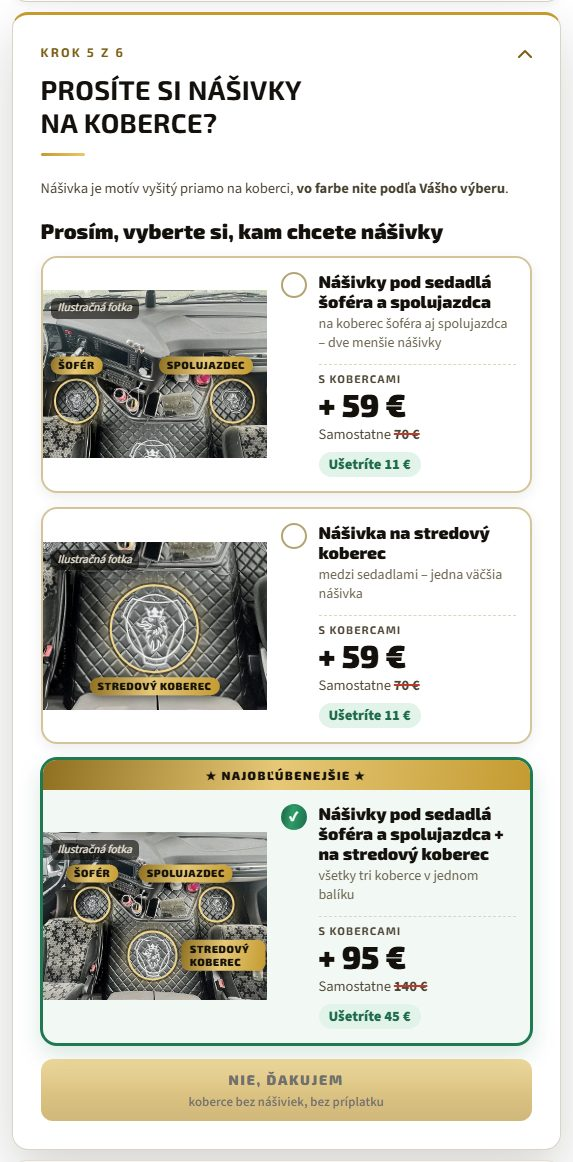
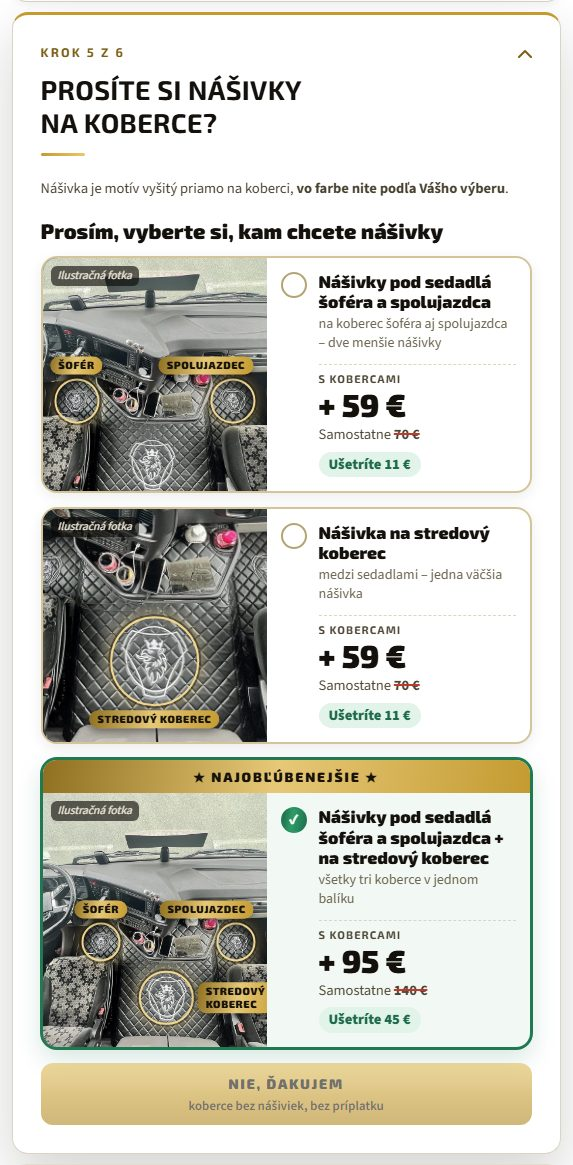
1V kamióny: opravy po dvojitej revízii otázok po jednej — „Pokračujte“ aj pod otázkou otvorenou cez Zmeniť, otázka na dvere sa nedá obísť, farby tapacíru celé, fotka 5.1 na PC bez pásov, texty
- telo56: tlačidlo „Pokračujte ďalej / k súhrnu“ skryté len pri nehotovom kroku; otázky otvorené cez Zmeniť sa zavrú pri zatvorení hlavičky a v otvorKrok; lišta „Pokračovať“ zavrie otázku zakrývajúcu nepotvrdenú kartu
- nášivka na dvere „ako na kobercoch“ bez vzoru: otázku Áno / Nie otvára chyba() (U.dvereInfo), Zmeniť ponuku + Áno ju neobíde
- odoberBoky: pod sedadlá -> stredový koberec prevezme práve videný motív a niť
- texty: „rovnaká nášivka ako pod sedadlami“, „Motív nášivky na tapacír dverí: rovnaký ako na kobercoch“, vlastný nadpis karty motívu na dvere, „✓ Iný materiál, farba alebo lemovanie“, ponuka tapacíru bez sľubu predvoľby, nezalomiteľné „· + 95 €“
- CSS: farby tapacíru v karte v stĺpcoch ≥ 86 px, otázky 20 px, pás ★ ako rohož/box, PC fotka 5.1 cez celú výšku dlaždice (zväčšenie z --z, clamp výrezu)
- testy: košík 334 OK (cesty 17–19), scenáre: fotka 5.1, zlom názvov farieb, otázka ≥ 20 px; snímky d-*.jpg; plán §12.1
Košík a ceny bez zmeny (POST 423 € / 258 € na 1280 aj 390 bajt po bajte = React).

diff --git a/assets/js/components/konfigurator1v/kamion/ui.js b/assets/js/components/konfigurator1v/kamion/ui.js
@@ -169,7 +169,9 @@ export function vytvorUi(o) {
           if (!S.tapLem) return { pole: "tapLem", msg: c.lemovanie };
           if (!U.n6.mat) return { pole: "tapMatDalej", msg: c.pokracovat };
         }
-        if (S.tapNas == null) return { pole: "tapNas", msg: c.nasivka };
+        /* U.dvereInfo: nášivka na dvere „ako na kobercoch“ stratila vzor -> otázka Áno / Nie platí znova (s vysvetlením),
+           kým na ňu zákazník neodpovie — ani znova „Áno“ pri tapacíri ju neobíde (revízia 18. 10. 2026 večer). */
+        if (S.tapNas == null || U.dvereInfo) return { pole: "tapNas", msg: c.nasivka };
         if (S.tapNas) {
           if (koberecNas() && !U.n6.nasOdp) return { pole: "tapNasVolba", msg: c.nasivka_volba };
           if (!(S.tapNasRovnaka && koberecNas())) {
@@ -616,14 +618,16 @@ export function vytvorUi(o) {
     return '<div class="k-sk kn-potvrd' + (msg ? " is-chyba" : "") + '" data-pole="' + pole + '"><button type="button" class="k-btn-zelene" data-a="potvrd" data-v="' + v + '" data-f="potvrd:' + v + '">' +
       esc(T.kroky.tlacidla.pokracovat) + '</button><p class="k-sk__chyba">' + esc(msg) + "</p></div>";
   }
-  /** Zodpovedaná podotázka: „✓ <b>nadpis</b> hodnota — Zmeniť“ (vnutri = riadok voľby „iné“ v otvorenej karte). */
+  /** Zodpovedaná podotázka: „✓ <b>nadpis</b> hodnota — Zmeniť“ (vnutri = riadok voľby „iné“ v otvorenej karte).
+   *  Hodnota „· + 95 €“ sa pripojí nezalomiteľnou medzerou (na telefóne nový riadok nezačne bodkou a cenou). */
   function riadokHot(zmenit, nadpis, hodnota, vnutri) {
     return '<div class="kn-hot' + (vnutri ? " kn-hot--vnutri" : "") + '" data-hot="' + zmenit + '"><span class="kn-hot__ic" aria-hidden="true"></span><span class="kn-hot__tx"><b>' + esc(nadpis) + "</b>" +
-      (hodnota ? " " + esc(hodnota) : "") + '</span><button type="button" class="kn-hot__zm" data-a="zmenit" data-v="' + zmenit + '" data-f="zmenit:' + zmenit + (vnutri ? ":v" : "") +
+      (hodnota ? (/^·/.test(hodnota) ? NB : " ") + esc(hodnota) : "") + '</span><button type="button" class="kn-hot__zm" data-a="zmenit" data-v="' + zmenit + '" data-f="zmenit:' + zmenit + (vnutri ? ":v" : "") +
       '" aria-label="' + attr(fill(U0.zmenit_aria, { x: String(nadpis).replace(/:$/, "") })) + '">' + esc(T.kroky.tlacidla.zmenit) + "</button></div>";
   }
   const karta = (blok, nadpis, obsah) => '<div class="kn-karta" data-blok="' + blok + '" tabindex="-1"><p class="kn-karta__ey">' + esc(nadpis) + "</p>" + obsah + "</div>";
-  /** Zodpovedané riadky, otvorený blok (len jeden), za ním nič; „Pokračujte“ až keď je všetko zodpovedané. */
+  /** Zodpovedané riadky, otvorený blok (len jeden), za ním nič; „Pokračujte“ až keď je všetko zodpovedané — aj pod
+   *  otázkou znova otvorenou cez „Zmeniť“ (revízia 18. 10. 2026 večer: inak hotový krok ostal bez tlačidla). */
   function telo56(id, posledny, blok, riadok) {
     const otv = otvorenyBlok(id), bl = blokyKroku(id);
     let html = "";
@@ -631,7 +635,7 @@ export function vytvorUi(o) {
       if (bl[i] === otv) { html += blok(otv); break; }
       html += riadok(bl[i]);
     }
-    return html + koniecKroku(id, posledny, !!otv);
+    return html + koniecKroku(id, posledny, !hotovy(id));
   }
   const teloNasivky = (posledny) => telo56("nasivky", posledny, blokNasivky, riadokNasivky);
   const teloTapacir = (posledny) => telo56("tapacir", posledny, blokTapacir, riadokTapacir);
@@ -684,9 +688,9 @@ export function vytvorUi(o) {
   function riadokNasivky(b) {
     const t = T.kroky.nasivky, h = t.hotove;
     if (b === "kam") {
-      if (S.nas === "nechcem") return riadokHot("kam", t.zhrnutie_nie, "· " + h.bez_priplatku);
+      if (S.nas === "nechcem") return riadokHot("kam", t.zhrnutie_nie, "·" + NB + h.bez_priplatku);
       const p = ponuka().nasivky[S.nas];
-      return riadokHot("kam", t.volby[S.nas].text, p && p.suma ? "· " + plus(p.suma) : "");
+      return riadokHot("kam", t.volby[S.nas].text, p && p.suma ? "·" + NB + plus(p.suma) : "");
     }
     if (b === "boky") return riadokHot("boky", h.boky, motivTxt(S.nasBoky));
     if (S.nas === "boky+stred" && S.stredRovnaky) return riadokHot("stred", h.stred, fill(h.stred_rovnaka, { x: motivTxt(S.nasBoky) }));
@@ -716,7 +720,7 @@ export function vytvorUi(o) {
             popisTx(S.material ? matKratko(S.material) : "") + popisTx([fk ? farbaTx(fk) : "", lk ? lemTx(lk) : ""].filter(Boolean).join(" · "))) +
           rvDlazdica("tapZmenit", null, odp && !S.tapRovnaky, mozaikaMaterialov(), r.inak, popisTx(r.inak_popis)) + "</div>"));
       }
-      let html = riadokHot("mat", r.inak, "", true) + skOt("tapacir", "tapMat", oz.material, '<div class="k-dlazdice k-dlazdice--mat" role="group" aria-labelledby="' + P + 'ot-tapMat">' + MATERIALY.map((m, i) => {
+      let html = riadokHot("mat", r.inak_hotove, "", true) + skOt("tapacir", "tapMat", oz.material, '<div class="k-dlazdice k-dlazdice--mat" role="group" aria-labelledby="' + P + 'ot-tapMat">' + MATERIALY.map((m, i) => {
         const v = matT(m.nazov), x = S.tapMat === m.nazov, fx = x && S.tapFarba ? farba(m.nazov, S.tapFarba) : null;
         return '<button type="button" class="k-dlazdica' + (x ? " is-on" : "") + '" data-a="tapMat" data-v="' + attr(m.nazov) + '" data-f="tapMat:' + i + '" aria-pressed="' + x + '">' +
           '<img class="k-dlazdica__img" src="' + attr(fx ? fx.full : m.karta_obrazok) + '" alt="" loading="lazy"><span class="k-dlazdica__nm">' + esc(v.variant) + "<small>" + esc(v.nazov === "Mikrosemiš" ? U0.mikrosemis : U0.syntetika) + "</small></span></button>";
@@ -746,13 +750,14 @@ export function vytvorUi(o) {
     const ft = tm ? (tk && farba(tm, tk)) || null : null;
     const bgT = ft ? ft.full : tm ? matD(tm).karta_obrazok : "";
     const podT = tm ? fill(nd.podklad, { x: matKratko(tm) + (ft ? ", " + farbaTx(ft) : "") }) : "";
+    // karta motívu má vlastný nadpis (nie ten istý ako zatvorená otázka Áno / Nie hneď nad ňou)
     if (otazkaDvere()) {
       const odp = U.n6.nasOdp;
-      return karta("dvere", nd.nadpis, skOt("tapacir", "tapNasVolba", oz.nasivka, '<div class="kn-rv" role="group" aria-labelledby="' + P + 'ot-tapNasVolba">' +
+      return karta("dvere", nd.nadpis_motiv, skOt("tapacir", "tapNasVolba", oz.nasivka, '<div class="kn-rv" role="group" aria-labelledby="' + P + 'ot-tapNasVolba">' +
         rvDlazdica("tapNasRovnaka", "1", odp && S.tapNasRovnaka, platno("kn-rv__cv", kn, bgT, ".92", 600, 400), nd.rovnaka, popisTx(motivTxt(kn))) +
         rvDlazdica("tapNasRovnaka", "0", odp && !S.tapNasRovnaka, mozaikaMotivov("dvere"), nd.ina, popisTx(nd.ina_popis)) + "</div>"));
     }
-    return karta("dvere", nd.nadpis, (kn ? riadokHot("dvere", nd.ina, "", true) : '<p class="kn-info">' + esc(S.nas == null ? nd.bez_kobercov_nevybrate : nd.bez_kobercov) + "</p>") +
+    return karta("dvere", nd.nadpis_motiv, (kn ? riadokHot("dvere", nd.ina, "", true) : '<p class="kn-info">' + esc(S.nas == null ? nd.bez_kobercov_nevybrate : nd.bez_kobercov) + "</p>") +
       skOt("tapacir", "dvereMotiv", oz.motiv, dlazdiceMotivov("dvere", S.tapNasMotiv, "dvere")) +
       skOt("tapacir", "dvereNit", oz.nit, cipyNiti("dvere", S.tapNasNit)) +
       nahladVelky({ motiv: S.tapNasMotiv, nit: S.tapNasNit }, bgT, nd.kam_pride, podT, schemaDvere()) +
@@ -942,14 +947,18 @@ export function vytvorUi(o) {
     for (let j = 0; j < i; j++) if (!hotovy(ks[j])) return ks[j];
     return null;
   }
+  /** Otázky znova otvorené cez „Zmeniť“ platia len kým je krok otvorený: zatvorenie hlavičky alebo iný krok ich zavrie
+   *  (revízia 18. 10. 2026 večer — po návrate bol krok bez riadkov ✓ a bez „Pokračujte“). */
+  const zavriZnova = () => { U.znova.nasivky = null; U.znova.tapacir = null; };
   function otvorKrok(id) {
     if (kroky().indexOf(id) < 0) id = "vozidlo"; // neznámy krok (napr. tapacír pri dodávke) -> prvý
+    zavriZnova();
     const pred = prvyNehotovyPred(id);
     if (pred) { U.chyby[pred] = chyba(pred); U.znova[pred] = null; U.zablesk = pred; U.otvoreny = pred; render(); posunPole(pred, U.chyby[pred].pole); return; }
     U.otvoreny = id; render(); posunKrok(id, true);
   }
   function klikHlavicka(id) {
-    if (U.otvoreny === id) { U.otvoreny = null; render(); return; }
+    if (U.otvoreny === id) { U.otvoreny = null; zavriZnova(); render(); return; }
     otvorKrok(id);
   }
   function pokracuj(id) {
@@ -983,6 +992,8 @@ export function vytvorUi(o) {
     if (vsetkoHotove()) { kosik(); return; }
     const x = U.otvoreny;
     if (x && !hotovy(x)) {
+      /* otázka znova otvorená cez „Zmeniť“ zakrýva nezodpovedanú podotázku -> lišta ju zavrie a posunie na tú podotázku */
+      if (U.znova[x]) { U.znova[x] = null; render(); posunNaBlok(x); return; }
       /* v karte kroku 5 / 6 čaká len „Pokračovať“ -> lišta „Pokračovať“ urobí to isté */
       const ch = chyba(x), pv = POTVRD_POLA[ch.pole];
       if (pv && otvorenyBlok(x) === BLOK_POLA[x][ch.pole]) { const k0 = kluc(x); potvrd(pv); if (kluc(x) !== k0) posunNaBlok(x); return; }
@@ -999,15 +1010,15 @@ export function vytvorUi(o) {
     fn();
     if (!tapDostupny()) {
       S.tap = null; S.tapNas = null;
-      U.n6 = { matOdp: false, mat: false, nasOdp: false, nas: false }; U.znova.tapacir = null;
+      U.n6 = { matOdp: false, mat: false, nasOdp: false, nas: false }; U.znova.tapacir = null; U.dvereInfo = false;
     }
     /* Nášivka na tapacír „ako na kobercoch“ stratila vzor -> otázka na dvere sa ukáže znova s vysvetlením. S.tapNas ostane
        (predtým null: select Shoptetu ostal na „Áno“ = cena Shoptetu o 49 € vyššia, console.error); krok 6 je neúplný,
-       kým zákazník neodpovie Áno (potom motív a niť) alebo Nie. */
+       kým zákazník neodpovie Áno (potom motív a niť) alebo Nie — otázku otvára chyba() (pole tapNas), nie U.znova. */
     if (malNas && !koberecNas() && S.tap === "ano" && S.tapNas === true && S.tapNasRovnaka && U.n6.nasOdp) {
-      U.dvereInfo = true; U.n6.nasOdp = false; U.n6.nas = false; U.znova.tapacir = "nas";
+      U.dvereInfo = true; U.n6.nasOdp = false; U.n6.nas = false;
     }
-    if (U.dvereInfo && koberecNas()) { U.dvereInfo = false; if (U.znova.tapacir === "nas") U.znova.tapacir = null; } // vzor je späť
+    if (U.dvereInfo && koberecNas()) U.dvereInfo = false; // vzor je späť
     prepocitajChyby();
     render();
     o.naZmenu(S);
@@ -1017,10 +1028,12 @@ export function vytvorUi(o) {
   function pridajBoky() {
     if (S.nas === "stred" && (S.nasStred.motiv || S.nasStred.nit)) { S.nasBoky = { motiv: S.nasStred.motiv, nit: S.nasStred.nit }; S.stredRovnaky = true; }
   }
-  /** Odobratie nášiviek pod sedadlami: stredový koberec si nechá ich motív a niť, ak bol „rovnaký“ alebo ešte nemá vlastný. */
+  /** Odobratie nášiviek pod sedadlami: stredový koberec prevezme ich motív a niť, ak bol „rovnaký“, ak ešte nemá vlastný,
+   *  alebo pri prechode z „pod sedadlá“ (zákazník práve videl ich motív a niť, nie starý výber stredu z histórie). */
   function odoberBoky() {
     if (!(S.nasBoky.motiv || S.nasBoky.nit)) return;
-    if ((S.nas === "boky+stred" && S.stredRovnaky) || (S.nas === "boky" && !S.nasStred.motiv && !S.nasStred.nit)) S.nasStred = { motiv: S.nasBoky.motiv, nit: S.nasBoky.nit };
+    const bokyCele = !!(S.nasBoky.motiv && S.nasBoky.nit), stredPrazdny = !S.nasStred.motiv && !S.nasStred.nit;
+    if ((S.nas === "boky+stred" && S.stredRovnaky) || (S.nas === "boky" && (bokyCele || stredPrazdny))) S.nasStred = { motiv: S.nasBoky.motiv, nit: S.nasBoky.nit };
   }
   /** „Pokračovať“ v karte kroku 5 / 6: karta sa zatvorí, ak je v nej všetko vybraté; inak červený rám chýbajúceho poľa. */
   function potvrd(v) {
@@ -1108,7 +1121,8 @@ export function vytvorUi(o) {
       case "stredRovnaky": zmena(() => { S.stredRovnaky = v === "1"; U.n5.stredOdp = true; U.n5.stred = v === "1"; U.znova.nasivky = null; }); return;
       case "tapNasRovnaka": zmena(() => { S.tapNasRovnaka = v === "1"; U.n6.nasOdp = true; U.n6.nas = v === "1"; U.znova.tapacir = null; }); return;
       case "tap":
-        zmena(() => { S.tap = v; U.znova.tapacir = null; U.dvereInfo = false; });
+        /* U.dvereInfo ostáva: otázku na nášivku na dvere s vysvetlením zruší až odpoveď Áno / Nie (akcia tapNas) */
+        zmena(() => { S.tap = v; U.znova.tapacir = null; });
         if (v === "nie") pokracuj("tapacir");
         return;
       case "tapZmenit":

diff --git a/assets/css/luxuryCar.css b/assets/css/luxuryCar.css
@@ -19025,11 +19025,27 @@ body.lcd-1v[data-lcd1v-typ="kamion"] #lcd1v-kamion .kn-dv__txt .k-cenovka { marg
 body.lcd-1v[data-lcd1v-typ="kamion"] #lcd1v-kamion .kn-dv__nm { display: block; color: var(--k-ink); font: 800 17px/1.2 var(--k-disp); }
 body.lcd-1v[data-lcd1v-typ="kamion"] #lcd1v-kamion .kn-dv__po { display: block; margin-top: 3px; color: var(--k-mute); font: 400 14px/1.4 var(--k-body); }
 /* ★ všetky tri: zlatý pás „★ Najobľúbenejšie ★“ cez celú šírku dlaždice (ako odporúčaná karta rohože a boxu do kufra) */
-body.lcd-1v[data-lcd1v-typ="kamion"] #lcd1v-kamion .kn-dv__top { display: block; padding: 8px 12px 7px; background: var(--k-zlato); color: #17130a; font: 800 12px/1.2 var(--k-disp); letter-spacing: .12em; text-align: center; text-transform: uppercase; white-space: nowrap; }
+body.lcd-1v[data-lcd1v-typ="kamion"] #lcd1v-kamion .kn-dv__top { display: block; padding: 9px 12px 8px; background: var(--k-zlato); color: #17130a; font: 800 13.5px/1.2 var(--k-disp); letter-spacing: .14em; text-align: center; text-transform: uppercase; white-space: nowrap; }
+@media (max-width: 359px) {
+  body.lcd-1v[data-lcd1v-typ="kamion"] #lcd1v-kamion .kn-dv__top { padding-inline: 8px; font-size: 12px; letter-spacing: .1em; }
+}
 @media (min-width: 600px) {
   body.lcd-1v[data-lcd1v-typ="kamion"] #lcd1v-kamion .kn-dv__b { display: grid; grid-template-columns: 46% minmax(0, 1fr); align-items: center; }
   body.lcd-1v[data-lcd1v-typ="kamion"] #lcd1v-kamion .kn-dv__b > .kn-foto { aspect-ratio: 4 / 3; }
   body.lcd-1v[data-lcd1v-typ="kamion"] #lcd1v-kamion .kn-dv__top { grid-column: 1 / -1; align-self: stretch; }
+}
+/* PC: fotka vyplní celú výšku dlaždice (text s cenovkou je vyšší než 4:3 -> predtým biele pásy nad a pod fotkou).
+   Zväčšenie ostane z --z (krúžky a štítky Šofér / Spolujazdec celé), scéna je najmenej taká vysoká ako okno fotky
+   (height max(z·75cqw, 100,5 %), šírka z pomeru 4:3) a výrez sa len posunie tak, aby pri okraji nevznikla medzera
+   (clamp). Výška okna len v % (cqh pri výške z min-height Chrome vyhodnotil ako 0); šírka okna = 100cqw. Prehliadač
+   bez jednotiek kontajnera ostane pri 4:3 vyššie. */
+@supports (width: 1cqw) {
+  @media (min-width: 600px) {
+    body.lcd-1v[data-lcd1v-typ="kamion"] #lcd1v-kamion .kn-dv__b { align-items: stretch; }
+    body.lcd-1v[data-lcd1v-typ="kamion"] #lcd1v-kamion .kn-dv__b > .kn-foto { aspect-ratio: auto; min-height: 210px; container-type: inline-size; }
+    body.lcd-1v[data-lcd1v-typ="kamion"] #lcd1v-kamion .kn-dv__b > .kn-foto .kn-scena { --hs: max(calc(var(--z) * 75cqw), 100.5%); width: auto; height: var(--hs); left: clamp(calc(100% - var(--z) * 100%), calc(50% - var(--fx) * var(--z) * 100%), 0px); top: clamp(calc(100% - var(--hs)), calc(50% - var(--fy) * var(--hs)), 0px); transform: none; }
+    body.lcd-1v[data-lcd1v-typ="kamion"] #lcd1v-kamion .kn-dv__b > .kn-dv__tx { align-self: center; }
+  }
 }
 /* „Nie, ďakujem“ s popisom pod textom */
 body.lcd-1v[data-lcd1v-typ="kamion"] #lcd1v-kamion .k-btn-zlate.kn-nie { flex-direction: column; gap: 3px; height: auto; min-height: 56px; margin-top: 14px; padding-top: 10px; padding-bottom: 10px; }
@@ -19106,7 +19122,7 @@ body.lcd-1v[data-lcd1v-typ="kamion"] #lcd1v-kamion .kn-ponuka .an { margin-top: 
    sa zatvorí do riadka „✓ … — Zmeniť“, zelené „Pokračovať“ na konci karty (ui.js skOt / karta / riadokHot / potvrdTl) ===== */
 body.lcd-1v[data-lcd1v-typ="kamion"] #lcd1v-kamion .kn-blok, body.lcd-1v[data-lcd1v-typ="kamion"] #lcd1v-kamion .kn-karta { scroll-margin-top: 72px; }
 body.lcd-1v[data-lcd1v-typ="kamion"] #lcd1v-kamion .kn-blok:focus, body.lcd-1v[data-lcd1v-typ="kamion"] #lcd1v-kamion .kn-karta:focus { outline: none; }
-body.lcd-1v[data-lcd1v-typ="kamion"] #lcd1v-kamion .kn-ot { margin: 0 0 12px; padding: 0; color: var(--k-ink); font: 800 19px/1.25 var(--k-disp); letter-spacing: .005em; text-transform: none; }
+body.lcd-1v[data-lcd1v-typ="kamion"] #lcd1v-kamion .kn-ot { margin: 0 0 12px; padding: 0; color: var(--k-ink); font: 800 20px/1.25 var(--k-disp); letter-spacing: .005em; text-transform: none; }
 body.lcd-1v[data-lcd1v-typ="kamion"] #lcd1v-kamion .kn-karta { margin: 14px 0 0; padding: 16px 16px 18px; border: 2px solid var(--k-ram); border-radius: 16px; background: #fff; box-shadow: 0 8px 22px rgba(20, 15, 5, .08); }
 body.lcd-1v[data-lcd1v-typ="kamion"] #lcd1v-kamion .kn-karta:first-child { margin-top: 0; }
 body.lcd-1v[data-lcd1v-typ="kamion"] #lcd1v-kamion .kn-karta__ey { margin: 0 0 14px; padding: 0 0 10px; border-bottom: 1px solid var(--k-line); color: var(--k-gold-tx); font: 800 12px/1.35 var(--k-disp); letter-spacing: .12em; text-transform: uppercase; }
@@ -19133,9 +19149,11 @@ body.lcd-1v[data-lcd1v-typ="kamion"] #lcd1v-kamion .kn-hot--vnutri { margin: 0 0
 body.lcd-1v[data-lcd1v-typ="kamion"] #lcd1v-kamion .kn-hot + .k-chyba-tx, body.lcd-1v[data-lcd1v-typ="kamion"] #lcd1v-kamion .kn-hot + .k-btn-zelene { margin-top: 18px; }
 @media (max-width: 400px) {
   body.lcd-1v[data-lcd1v-typ="kamion"] #lcd1v-kamion .kn-karta { padding: 14px 12px 16px; }
-  body.lcd-1v[data-lcd1v-typ="kamion"] #lcd1v-kamion .kn-ot { font-size: 18px; }
   body.lcd-1v[data-lcd1v-typ="kamion"] #lcd1v-kamion .kn-hot__tx { font-size: 14px; }
 }
+/* farby tapacíru v karte („Vybrať inak“): karta zúži mriežku (telefón, aj úzky stĺpec na tablete / PC 1024 px) ->
+   stĺpce aspoň 86 px, aby sa názvy (Tmavohnedá, Karamelová …) nelámali uprostred slova */
+body.lcd-1v[data-lcd1v-typ="kamion"] #lcd1v-kamion .kn-karta .fb { grid-template-columns: repeat(auto-fill, minmax(86px, 1fr)); gap: 14px 8px; }
 @media (min-width: 721px) {
   body.lcd-1v[data-lcd1v-typ="kamion"] #lcd1v-kamion .kn-ot { font-size: 21px; }
   body.lcd-1v[data-lcd1v-typ="kamion"] #lcd1v-kamion .kn-karta { padding: 18px 20px 20px; }

diff --git a/assets/css/_lcd1v-kamiony.scss b/assets/css/_lcd1v-kamiony.scss
@@ -375,11 +375,27 @@ body.lcd-1v[data-lcd1v-typ="kamion"] #lcd1v-kamion .kn-dv__txt .k-cenovka { marg
 body.lcd-1v[data-lcd1v-typ="kamion"] #lcd1v-kamion .kn-dv__nm { display: block; color: var(--k-ink); font: 800 17px/1.2 var(--k-disp); }
 body.lcd-1v[data-lcd1v-typ="kamion"] #lcd1v-kamion .kn-dv__po { display: block; margin-top: 3px; color: var(--k-mute); font: 400 14px/1.4 var(--k-body); }
 /* ★ všetky tri: zlatý pás „★ Najobľúbenejšie ★“ cez celú šírku dlaždice (ako odporúčaná karta rohože a boxu do kufra) */
-body.lcd-1v[data-lcd1v-typ="kamion"] #lcd1v-kamion .kn-dv__top { display: block; padding: 8px 12px 7px; background: var(--k-zlato); color: #17130a; font: 800 12px/1.2 var(--k-disp); letter-spacing: .12em; text-align: center; text-transform: uppercase; white-space: nowrap; }
+body.lcd-1v[data-lcd1v-typ="kamion"] #lcd1v-kamion .kn-dv__top { display: block; padding: 9px 12px 8px; background: var(--k-zlato); color: #17130a; font: 800 13.5px/1.2 var(--k-disp); letter-spacing: .14em; text-align: center; text-transform: uppercase; white-space: nowrap; }
+@media (max-width: 359px) {
+  body.lcd-1v[data-lcd1v-typ="kamion"] #lcd1v-kamion .kn-dv__top { padding-inline: 8px; font-size: 12px; letter-spacing: .1em; }
+}
 @media (min-width: 600px) {
   body.lcd-1v[data-lcd1v-typ="kamion"] #lcd1v-kamion .kn-dv__b { display: grid; grid-template-columns: 46% minmax(0, 1fr); align-items: center; }
   body.lcd-1v[data-lcd1v-typ="kamion"] #lcd1v-kamion .kn-dv__b > .kn-foto { aspect-ratio: 4 / 3; }
   body.lcd-1v[data-lcd1v-typ="kamion"] #lcd1v-kamion .kn-dv__top { grid-column: 1 / -1; align-self: stretch; }
+}
+/* PC: fotka vyplní celú výšku dlaždice (text s cenovkou je vyšší než 4:3 -> predtým biele pásy nad a pod fotkou).
+   Zväčšenie ostane z --z (krúžky a štítky Šofér / Spolujazdec celé), scéna je najmenej taká vysoká ako okno fotky
+   (height max(z·75cqw, 100,5 %), šírka z pomeru 4:3) a výrez sa len posunie tak, aby pri okraji nevznikla medzera
+   (clamp). Výška okna len v % (cqh pri výške z min-height Chrome vyhodnotil ako 0); šírka okna = 100cqw. Prehliadač
+   bez jednotiek kontajnera ostane pri 4:3 vyššie. */
+@supports (width: 1cqw) {
+  @media (min-width: 600px) {
+    body.lcd-1v[data-lcd1v-typ="kamion"] #lcd1v-kamion .kn-dv__b { align-items: stretch; }
+    body.lcd-1v[data-lcd1v-typ="kamion"] #lcd1v-kamion .kn-dv__b > .kn-foto { aspect-ratio: auto; min-height: 210px; container-type: inline-size; }
+    body.lcd-1v[data-lcd1v-typ="kamion"] #lcd1v-kamion .kn-dv__b > .kn-foto .kn-scena { --hs: max(calc(var(--z) * 75cqw), 100.5%); width: auto; height: var(--hs); left: clamp(calc(100% - var(--z) * 100%), calc(50% - var(--fx) * var(--z) * 100%), 0px); top: clamp(calc(100% - var(--hs)), calc(50% - var(--fy) * var(--hs)), 0px); transform: none; }
+    body.lcd-1v[data-lcd1v-typ="kamion"] #lcd1v-kamion .kn-dv__b > .kn-dv__tx { align-self: center; }
+  }
 }
 /* „Nie, ďakujem“ s popisom pod textom */
 body.lcd-1v[data-lcd1v-typ="kamion"] #lcd1v-kamion .k-btn-zlate.kn-nie { flex-direction: column; gap: 3px; height: auto; min-height: 56px; margin-top: 14px; padding-top: 10px; padding-bottom: 10px; }
@@ -456,7 +472,7 @@ body.lcd-1v[data-lcd1v-typ="kamion"] #lcd1v-kamion .kn-ponuka .an { margin-top: 
    sa zatvorí do riadka „✓ … — Zmeniť“, zelené „Pokračovať“ na konci karty (ui.js skOt / karta / riadokHot / potvrdTl) ===== */
 body.lcd-1v[data-lcd1v-typ="kamion"] #lcd1v-kamion .kn-blok, body.lcd-1v[data-lcd1v-typ="kamion"] #lcd1v-kamion .kn-karta { scroll-margin-top: 72px; }
 body.lcd-1v[data-lcd1v-typ="kamion"] #lcd1v-kamion .kn-blok:focus, body.lcd-1v[data-lcd1v-typ="kamion"] #lcd1v-kamion .kn-karta:focus { outline: none; }
-body.lcd-1v[data-lcd1v-typ="kamion"] #lcd1v-kamion .kn-ot { margin: 0 0 12px; padding: 0; color: var(--k-ink); font: 800 19px/1.25 var(--k-disp); letter-spacing: .005em; text-transform: none; }
+body.lcd-1v[data-lcd1v-typ="kamion"] #lcd1v-kamion .kn-ot { margin: 0 0 12px; padding: 0; color: var(--k-ink); font: 800 20px/1.25 var(--k-disp); letter-spacing: .005em; text-transform: none; }
 body.lcd-1v[data-lcd1v-typ="kamion"] #lcd1v-kamion .kn-karta { margin: 14px 0 0; padding: 16px 16px 18px; border: 2px solid var(--k-ram); border-radius: 16px; background: #fff; box-shadow: 0 8px 22px rgba(20, 15, 5, .08); }
 body.lcd-1v[data-lcd1v-typ="kamion"] #lcd1v-kamion .kn-karta:first-child { margin-top: 0; }
 body.lcd-1v[data-lcd1v-typ="kamion"] #lcd1v-kamion .kn-karta__ey { margin: 0 0 14px; padding: 0 0 10px; border-bottom: 1px solid var(--k-line); color: var(--k-gold-tx); font: 800 12px/1.35 var(--k-disp); letter-spacing: .12em; text-transform: uppercase; }
@@ -483,9 +499,11 @@ body.lcd-1v[data-lcd1v-typ="kamion"] #lcd1v-kamion .kn-hot--vnutri { margin: 0 0
 body.lcd-1v[data-lcd1v-typ="kamion"] #lcd1v-kamion .kn-hot + .k-chyba-tx, body.lcd-1v[data-lcd1v-typ="kamion"] #lcd1v-kamion .kn-hot + .k-btn-zelene { margin-top: 18px; }
 @media (max-width: 400px) {
   body.lcd-1v[data-lcd1v-typ="kamion"] #lcd1v-kamion .kn-karta { padding: 14px 12px 16px; }
-  body.lcd-1v[data-lcd1v-typ="kamion"] #lcd1v-kamion .kn-ot { font-size: 18px; }
   body.lcd-1v[data-lcd1v-typ="kamion"] #lcd1v-kamion .kn-hot__tx { font-size: 14px; }
 }
+/* farby tapacíru v karte („Vybrať inak“): karta zúži mriežku (telefón, aj úzky stĺpec na tablete / PC 1024 px) ->
+   stĺpce aspoň 86 px, aby sa názvy (Tmavohnedá, Karamelová …) nelámali uprostred slova */
+body.lcd-1v[data-lcd1v-typ="kamion"] #lcd1v-kamion .kn-karta .fb { grid-template-columns: repeat(auto-fill, minmax(86px, 1fr)); gap: 14px 8px; }
 @media (min-width: 721px) {
   body.lcd-1v[data-lcd1v-typ="kamion"] #lcd1v-kamion .kn-ot { font-size: 21px; }
   body.lcd-1v[data-lcd1v-typ="kamion"] #lcd1v-kamion .kn-karta { padding: 18px 20px 20px; }

diff --git a/assets/js/components/konfigurator1v/kamion/texty.js b/assets/js/components/konfigurator1v/kamion/texty.js
@@ -553,7 +553,7 @@ export const TEXTY = {
    "hotove": {
     "boky": "Pod sedadlá šoféra a spolujazdca:",
     "stred": "Stredový koberec:",
-    "stred_rovnaka": "rovnaká ako pod sedadlami – {x}",
+    "stred_rovnaka": "rovnaká nášivka ako pod sedadlami – {x}",
     "bez_priplatku": "bez príplatku"
    },
    "kam_pride": {
@@ -587,7 +587,7 @@ export const TEXTY = {
    "foto_alt": "Celý panel dverí kamióna s tapacírom a nášivkou v strede, ilustračná fotka",
    "foto_stitok": "Tapacír dverí",
    "ilustracna": "Ilustračná fotka",
-   "benefit": "Ak nič nezmeníte, bude v\u00a0rovnakom materiáli, farbe a\u00a0lemovaní ako koberce. Môžete si ich však vybrať aj inak.",
+   "benefit": "Môže byť v\u00a0rovnakom materiáli, farbe a\u00a0lemovaní ako koberce, alebo si ich vyberiete inak.",
    "volby": {
     "ano": {
      "text": "Áno, chcem aj tapacír dverí",
@@ -601,7 +601,8 @@ export const TEXTY = {
    "rovnake": {
     "ano": "Rovnaké ako koberce",
     "inak": "Vybrať inak",
-    "inak_popis": "iný materiál, farbu alebo lemovanie"
+    "inak_popis": "iný materiál, farbu alebo lemovanie",
+    "inak_hotove": "Iný materiál, farba alebo lemovanie"
    },
    "otazky": {
     "mat": "Prosím, vyberte si materiál, farbu a lemovanie tapacíru",
@@ -621,6 +622,7 @@ export const TEXTY = {
    },
    "nasivka_dvere": {
     "nadpis": "Nášivka na tapacír dverí",
+    "nadpis_motiv": "Motív nášivky na tapacír dverí",
     "kde": [
      "Motív bude vyšitý ",
      "do stredu výplne dverí",
@@ -644,13 +646,13 @@ export const TEXTY = {
    },
    "hotove": {
     "ponuka": "Tapacír dverí:",
-    "ano": "áno · {x}",
+    "ano": "áno\u00a0·\u00a0{x}",
     "nie": "nie, ďakujem",
     "mat": "Materiál, farba a lemovanie:",
     "mat_rovnake": "rovnaké ako koberce",
     "nas": "Nášivka na tapacír dverí:",
-    "dvere": "Motív na tapacíre dverí:",
-    "dvere_rovnaka": "rovnaká ako na kobercoch – {x}"
+    "dvere": "Motív nášivky na tapacír dverí:",
+    "dvere_rovnaka": "rovnaký ako na kobercoch – {x}"
    },
    "zhrnutie_ano": "Áno · ako na kobercoch",
    "zhrnutie_ano_vlastne": "Áno · {nazov}, {variant} · {farba}",

diff --git a/docs/kamiony-1v-plan.md b/docs/kamiony-1v-plan.md
@@ -462,3 +462,19 @@ Michal po prechode naživo (`?novy=1`, 85a2a4c): zaškrtávanie miest a „všet
 | Oprava popri | nášivka na dvere „ako na kobercoch“ po zrušení nášiviek na kobercoch: `S.tapNas` ostane (predtým `null` → select 355 ostal „Áno“ = cena Shoptetu o 49 € vyššia + `console.error`), otázka Áno/Nie na dvere sa ukáže znova s vysvetlením a bez predvoľby. |
 
 Testy: `kamion:test` (cena 68 · ceny vs gen.jsx NÁLEZ 0 · košík **309 OK** — cesty 1–11 s klikmi „Pokračovať“ / „Rovnaké“ v podotázkach, cesta 17 prepísaná na nový tok, nová cesta 18 = lišta a košík bez potvrdenia · brána 42) · `truck:test` OK · `test-konfigurator-1v --novy --produkt 640 --sirka 1280,390` 10/10 (nové kontroly: 5.1 bez zeleného tlačidla, cenovka červená čiara + zelená pilulka, veľká otázka, zelená LEN jedna dlaždica, karta pod sedadlami sama, posun na kartu stredu, „Zmeniť“ ≥ 44 px) · POST kamion-platne 423 € a kamion-dodavka 258 € na 1280 aj 390 **bajt po bajte** = `post-porovnanie.json` → `revizia_2026_10_18` (scenáre vracajú telo POST do `--json`) · bez flagu `--produkt all --krok brana,nulova-zmena --sirka 1280` 30/30 · `test-1v-obsah --produkt 640` 10/10 · `build:once`, `vloz-lcd-css.py --check`, `build-admin-html.mjs --check` OK. Snímky `docs/kamiony-snimky/d-krok5-*.jpg`, `d-krok6-*.jpg` (390, 1280; JPEG, `node tools/snimky-kamion-kroky.mjs docs/kamiony-snimky`).
+
+### 12.1 Opravy po dvojitej revízii (logika + UX, 18. 10. 2026 večer; lokálny commit, bez pushu)
+
+Košík a ceny bez zmeny (`cena.js`, `stav.js`, `shoptet.js` nedotknuté; POST kamion-platne 423 € a kamion-dodavka 258 € na 1280 aj 390 bajt po bajte = `post-porovnanie.json` → `revizia_2026_10_18`).
+
+| Nález | Oprava |
+|---|---|
+| Otázka znova otvorená cez „Zmeniť“ na hotovom kroku: zmizlo „Pokračujte ďalej / k súhrnu“, `U.znova` prežil zatvorenie hlavičky aj iný krok, lišta „Pokračovať“ pri otázke nad nepotvrdenou kartou skončila na hlavičke | `telo56`: tlačidlo sa skryje len keď krok nie je hotový (`!hotovy(id)`); `zavriZnova()` v `otvorKrok` a pri zatvorení hlavičky; `lista()`: znova otvorenú otázku zavrie a posunie na prvú nezodpovedanú kartu (nič nepotvrdí) |
+| Nášivka na dvere „ako na kobercoch“ bez vzoru (`U.dvereInfo`): Zmeniť ponuku + znova Áno otázku obišlo | otázku Áno / Nie otvára `chyba()` (pole `tapNas`, kým platí `U.dvereInfo`), nie `U.znova`; akcia `tap` `U.dvereInfo` nemaže — zruší ho až odpoveď Áno / Nie (`tapNas`) alebo návrat nášivky na koberce; pri dodávke sa nuluje |
+| Pod sedadlá → stredový koberec prevzal starý vlastný stred z histórie | `odoberBoky`: z „pod sedadlá“ sa motív a niť prenesú vždy, keď sú obe vybraté |
+| Texty | „Stredový koberec: rovnaká **nášivka** ako pod sedadlami – …“, „Motív nášivky na tapacír dverí: rovnak**ý** ako na kobercoch – …“ (predtým „na tapacíre“ a nezhoda rodu), karta motívu na dvere má vlastný nadpis „Motív nášivky na tapacír dverí“, vnorený riadok „✓ Iný materiál, farba alebo lemovanie“ (nie sloveso „Vybrať inak“), ponuka tapacíru „Môže byť v rovnakom materiáli, farbe a lemovaní ako koberce, alebo si ich vyberiete inak.“ (nesľubuje predvoľbu), „áno · 119 €“ a „· + 95 €“ s nezalomiteľnými medzerami (riadok na telefóne nezačne bodkou) |
+| Vzhľad | farby tapacíru v karte („Vybrať inak“) v stĺpcoch ≥ 86 px (`auto-fill`) — „Tmavohnedá“, „Tmavomodrá“, „Karamelová“ sa nelámu ani na 360 px, ani v úzkom stĺpci na 1024 px; otázky „Prosím, vyberte si …“ 20 px (PC 21 px); pás „★ Najobľúbenejšie ★“ ako rohož a box (13,5 px, .14em, 9/12/8 px); PC (≥ 600 px): fotka v dlaždici 5.1 vyplní celú výšku dlaždice — zväčšenie ostáva z `--z` (krúžky a štítky celé), scéna je aspoň taká vysoká ako okno (`height: max(z·75cqw, 100,5 %)`, šírka z pomeru 4:3) a výrez sa len posunie (`clamp`), aby pri okraji nevznikla medzera; `@supports (width: 1cqw)`, inak 4:3 ako doteraz (pozor: `cqh` pri výške z `min-height` Chrome vyhodnotí ako 0) |
+
+Nové kontroly: `test-kamion-kosik` 334 OK (cesta 17: Zmeniť na hotovom kroku 5 aj 6 → „Pokračujte“, hlavička zavrieť/otvoriť → riadky ✓, Zmeniť ponuku + Áno pri strate vzoru, nadpis karty motívu, nové texty; cesta 18: lišta pri znova otvorenej otázke; nová cesta 19: všetky tri s iným stredom → pod sedadlá → stredový koberec + košík = React) · `scenare-kamion` (fotka 5.1 pokrýva okno a na PC vyplní výšku dlaždice, otázka ≥ 20 px, „Vybrať inak“ vždy: žiadny názov farby zalomený uprostred slova — overené na 360, 390, 430, 600, 768, 820, 1024, 1280 a 1366 px; kontroly zlyhajú na pôvodnom CSS).
+
+Vedome nezmenené (na rozhodnutie Michala): po poslednej podotázke sa ešte klikne „Pokračujte ďalej“ (ako kroky 1–4; automatický posun by sa dal doplniť) · dlaždica (3) ostáva výrez `--z:1.4` (všetky tri krúžky veľké), nie celá fotka · veta „Zákazníci si ich vyberajú najčastejšie“ pod pásom chýba (štítok „Najobľúbenejšie“ je stále otvorený bod §7 — veta by tvrdenie zosilnila) · lehota v súhrne 20–30 dní (texty ART; LCD inde 21–29 dní — otvorený bod §7).
